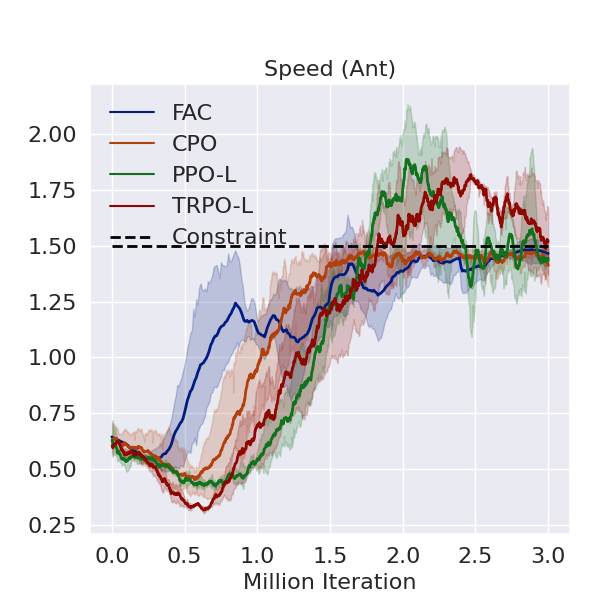
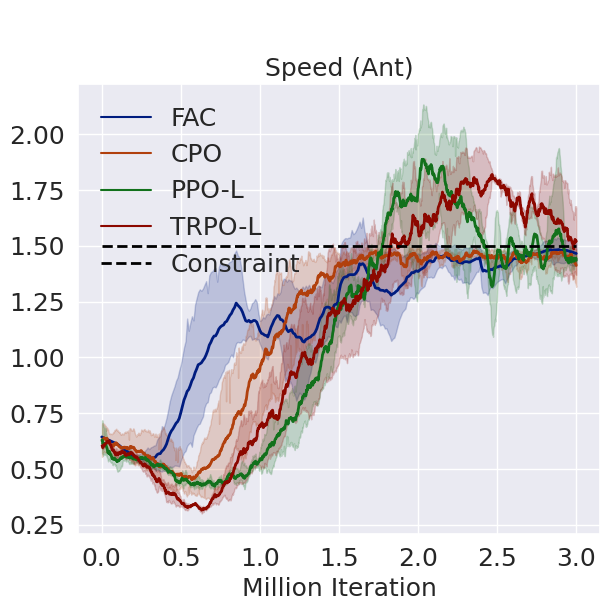
update plot

diff --git a/train_script4fsac.py b/train_script4fsac.py
@@ -86,7 +86,7 @@ def built_FSAC_parser():
             parser.add_argument("-" + key, default=val)
         return parser.parse_args()
 
-    parser.add_argument('--motivation', type=str, default='back to avg approximate')  # training testing
+    parser.add_argument('--motivation', type=str, default='redo halfcheetah')  # training testing
 
     # trainer
     parser.add_argument('--policy_type', type=str, default='PolicyWithMu')
@@ -99,7 +99,7 @@ def built_FSAC_parser():
     parser.add_argument('--demo', type=bool, default=False)
 
     # env
-    parser.add_argument('--env_id', default='Walker2d-v3')
+    parser.add_argument('--env_id', default='HalfCheetah-v3')
     parser.add_argument('--num_agent', type=int, default=1)
     parser.add_argument('--num_future_data', type=int, default=0)
 
@@ -111,7 +111,7 @@ def built_FSAC_parser():
     parser.add_argument('--gradient_clip_norm', type=float, default=10.)
     parser.add_argument('--lam_gradient_clip_norm', type=float, default=3.)
     parser.add_argument('--num_batch_reuse', type=int, default=1)
-    parser.add_argument('--cost_lim', type=float, default=10.0)
+    parser.add_argument('--cost_lim', type=float, default=30.0)
     parser.add_argument('--mlp_lam', default=True) # True: fsac, false: sac-lagrangian todo: add to new algo
     parser.add_argument('--double_QC', type=bool, default=False)
 
@@ -122,7 +122,7 @@ def built_FSAC_parser():
 
     # buffer
     parser.add_argument('--max_buffer_size', type=int, default=500000)
-    parser.add_argument('--replay_starts', type=int, default=3000)
+    parser.add_argument('--replay_starts', type=int, default=10000)
     parser.add_argument('--replay_batch_size', type=int, default=256)
     parser.add_argument('--replay_alpha', type=float, default=0.6)
     parser.add_argument('--replay_beta', type=float, default=0.4)
@@ -131,7 +131,7 @@ def built_FSAC_parser():
     # tester and evaluator
     parser.add_argument('--num_eval_episode', type=int, default=5)
     parser.add_argument('--eval_log_interval', type=int, default=1)
-    parser.add_argument('--fixed_steps', type=int, default=1000)
+    parser.add_argument('--fixed_steps', type=int, default=None)
     parser.add_argument('--eval_render', type=bool, default=False)
     num_eval_episode = parser.parse_args().num_eval_episode
     parser.add_argument('--num_eval_agent', type=int, default=1)
@@ -141,22 +141,22 @@ def built_FSAC_parser():
     parser.add_argument('--act_dim', type=int, default=None)
     parser.add_argument('--value_model_cls', type=str, default='MLP')
     parser.add_argument('--value_num_hidden_layers', type=int, default=2)
-    parser.add_argument('--value_num_hidden_units', type=int, default=64)
+    parser.add_argument('--value_num_hidden_units', type=int, default=256)
     parser.add_argument('--value_hidden_activation', type=str, default='elu')
-    parser.add_argument('--value_lr_schedule', type=list, default=[3e-5, 1000000, 1e-6])
-    parser.add_argument('--cost_value_lr_schedule', type=list, default=[3e-5, 1000000, 1e-6])
+    parser.add_argument('--value_lr_schedule', type=list, default=[8e-5, 3000000, 1e-6])
+    parser.add_argument('--cost_value_lr_schedule', type=list, default=[8e-5, 3000000, 1e-6])
     parser.add_argument('--policy_model_cls', type=str, default='MLP')
     parser.add_argument('--policy_num_hidden_layers', type=int, default=2)
-    parser.add_argument('--policy_num_hidden_units', type=int, default=64)
+    parser.add_argument('--policy_num_hidden_units', type=int, default=256)
     parser.add_argument('--policy_hidden_activation', type=str, default='elu')
     parser.add_argument('--policy_out_activation', type=str, default='linear')
-    parser.add_argument('--policy_lr_schedule', type=list, default=[8e-6, 500000, 1e-6])
-    parser.add_argument('--lam_lr_schedule', type=list, default=[1e-6, 150000, 1e-7])
+    parser.add_argument('--policy_lr_schedule', type=list, default=[3e-5, 1500000, 1e-6])
+    parser.add_argument('--lam_lr_schedule', type=list, default=[3e-5, 500000, 1e-6])
     parser.add_argument('--alpha', default='auto')  # 'auto' 0.02
     alpha = parser.parse_args().alpha
     if alpha == 'auto':
         parser.add_argument('--target_entropy', type=float, default=-3)
-    parser.add_argument('--alpha_lr_schedule', type=list, default=[1e-5, 500000, 1e-6])
+    parser.add_argument('--alpha_lr_schedule', type=list, default=[8e-5, 1500000, 1e-6])
     parser.add_argument('--policy_only', type=bool, default=False)
     parser.add_argument('--double_Q', type=bool, default=True)
     parser.add_argument('--target', type=bool, default=True)
@@ -174,18 +174,18 @@ def built_FSAC_parser():
     num_future_data = parser.parse_args().num_future_data
     parser.add_argument('--obs_scale', type=list, default=None)
     parser.add_argument('--rew_ptype', type=str, default='scale')
-    parser.add_argument('--rew_scale', type=float, default=0.1)
+    parser.add_argument('--rew_scale', type=float, default=0.2)
     parser.add_argument('--rew_shift', type=float, default=0.)
 
     # Optimizer (PABAL)
     parser.add_argument('--max_sampled_steps', type=int, default=0)
-    parser.add_argument('--max_iter', type=int, default=1800000)
+    parser.add_argument('--max_iter', type=int, default=3000000)
     parser.add_argument('--num_workers', type=int, default=NUM_WORKER)
     parser.add_argument('--num_learners', type=int, default=NUM_LEARNER)
     parser.add_argument('--num_buffers', type=int, default=NUM_BUFFER)
     parser.add_argument('--max_weight_sync_delay', type=int, default=300)
     parser.add_argument('--grads_queue_size', type=int, default=25)
-    parser.add_argument('--grads_max_reuse', type=int, default=3)
+    parser.add_argument('--grads_max_reuse', type=int, default=4)
     parser.add_argument('--eval_interval', type=int, default=10000) # 1000
     parser.add_argument('--save_interval', type=int, default=200000) # 200000
     parser.add_argument('--log_interval', type=int, default=100) # 100
@@ -201,9 +201,9 @@ def built_FSAC_parser():
     parser.add_argument('--result_dir', type=str, default=results_dir)
     parser.add_argument('--log_dir', type=str, default=results_dir + '/logs')
     parser.add_argument('--model_dir', type=str, default=results_dir + '/models')
-    parser.add_argument('--model_load_dir', type=str, default='./results/FSAC/Walker2d/Walker2d-2021-05-16-11-22-56-s4/models')
-    parser.add_argument('--model_load_ite', type=int, default=200000)
-    parser.add_argument('--ppc_load_dir', type=str, default='./results/FSAC/Walker2d/Walker2d-2021-05-16-11-22-56-s4/models')
+    parser.add_argument('--model_load_dir', type=str, default=None)
+    parser.add_argument('--model_load_ite', type=int, default=None)
+    parser.add_argument('--ppc_load_dir', type=str, default=None)
 
     return parser.parse_args()
 

diff --git a/data_process/lineplot_mujoco_raw_spd.py b/data_process/lineplot_mujoco_raw_spd.py
@@ -26,7 +26,7 @@ fsac_bias = {'episode_return':{'Ant':-1000,'HalfCheetah':0,'Walker2d':0,},'episo
 
 
 def help_func():
-    tag2plot = ['episode_cost']
+    tag2plot = ['episode_return']
     alg_list = ['FSAC', 'CPO','PPO-Lagrangian','TRPO-Lagrangian', ] # 'FSAC', 'CPO', 'SAC','SAC-Lagrangian',
     lbs = ['FAC','CPO','PPO-L','TRPO-L',] #  'FAC', 'CPO', 'SAC','SAC-Lagrangian',
     task = ['Ant']
@@ -155,8 +155,8 @@ def plot_eval_results_of_all_alg_n_runs(dirs_dict_for_plot=None):
         compare_dict = dump_results(final_results)
         total_dataframe = df_list[0].append(df_list[1:], ignore_index=True) if len(df_list) > 1 else df_list[0]
         figsize = (6,6)
-        axes_size = [0.15, 0.11, 0.8, 0.75] #if env == 'path_tracking_env' else [0.095, 0.11, 0.905, 0.89]
-        fontsize = 16
+        axes_size = [0.13, 0.11, 0.87, 0.75] #if env == 'path_tracking_env' else [0.095, 0.11, 0.905, 0.89]
+        fontsize = 18
         f1 = plt.figure(1, figsize=figsize)
         ax1 = f1.add_axes(axes_size)
         legend = True if task == 'Ant' and tag == 'episode_cost' else False
